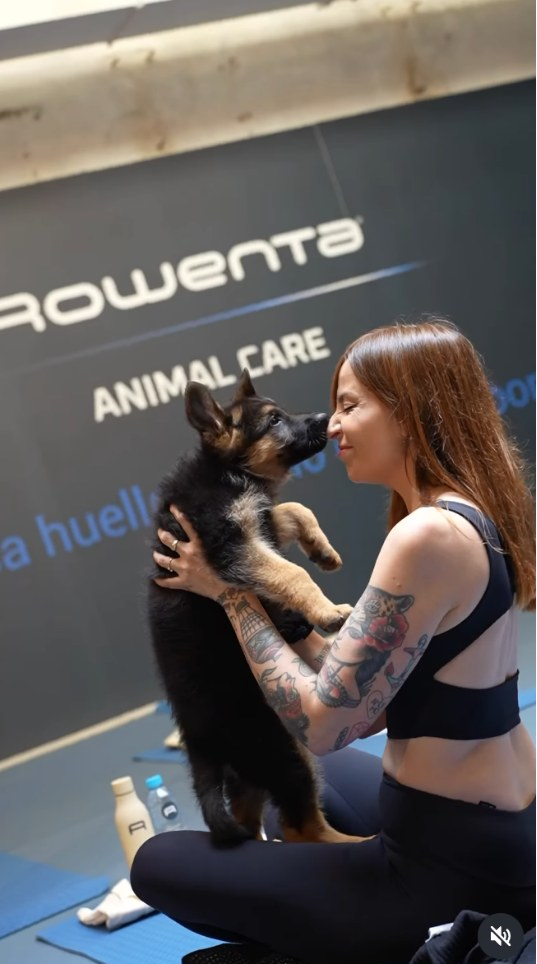
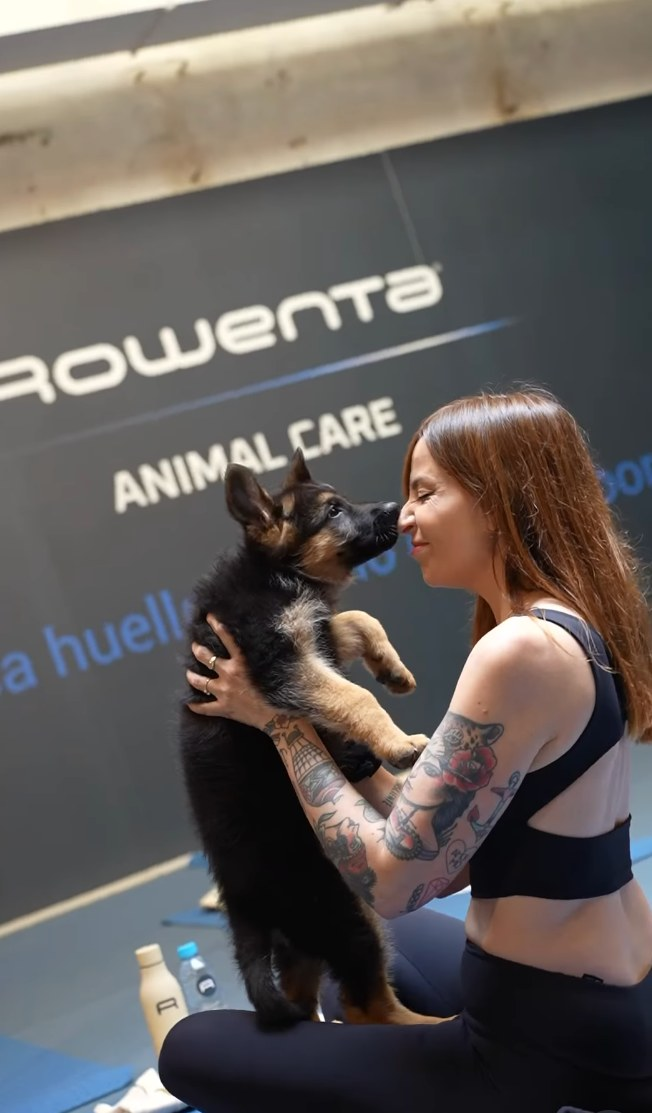
Add real links to video portfolio, replace social media photos with videos
Sourced accurate links and higher-res stills from the actual dossier PDF
(matching link click-areas to image positions to confirm each pairing):
- Fixed Rowenta event link, added Croft Twist event link
- Added Elisabeth Arden to Brand campaign
- Replaced the 3 Events thumbnails with sharper dossier versions
- Replaced Social media (previously unrelated photography stills) with
  5 real video-content stills, each linked to its actual Instagram post

Claude-Session: https://claude.ai/code/session_0178vgnaDS4wVBcrf8Gk3vhh

diff --git a/src/data/site.js b/src/data/site.js
@@ -368,6 +368,14 @@ export const portfolioItems = [
     alt: 'Making of de campaña de vídeo para Shiseido',
     video: true,
   },
+  {
+    sector: 'video',
+    subsection: 'campaign',
+    title: 'Making of de campaña de vídeo para Elisabeth Arden',
+    image: '/fotos/marca-redes/marca-46.jpg',
+    alt: 'Making of de campaña de vídeo para Elisabeth Arden',
+    video: true,
+  },
   // --- Vídeo / events ---
   {
     sector: 'video',
@@ -384,7 +392,7 @@ export const portfolioItems = [
     image: '/fotos/marca-redes/marca-42.jpg',
     alt: 'Cobertura de evento de marca para Rowenta, animal care',
     video: true,
-    link: 'https://www.instagram.com/p/DYO_xfFMrIu/',
+    link: 'https://www.instagram.com/p/DZsAfKZoCGY/',
     linkLabel: 'Ver en Instagram',
   },
   {
@@ -394,6 +402,8 @@ export const portfolioItems = [
     image: '/fotos/marca-redes/marca-44.jpg',
     alt: 'Cobertura de evento de marca para Croft Twist',
     video: true,
+    link: 'https://www.instagram.com/p/DYMv9_wMf67/',
+    linkLabel: 'Ver en Instagram',
   },
   {
     sector: 'video',
@@ -459,19 +469,29 @@ export const portfolioItems = [
   {
     sector: 'video',
     subsection: 'social',
-    title: 'Social media — reel de marca',
-    image: '/fotos/marca-redes/marca-19.jpg',
-    alt: 'Making of de un rodaje de contenido de marca para redes sociales',
+    title: 'Social media — Croft Twist, brindis en piscina',
+    image: '/fotos/marca-redes/marca-47.jpg',
+    alt: 'Dos personas brindando con cócteles Croft Twist junto a una piscina',
     video: true,
-    link: 'https://www.instagram.com/reel/CfB4rR1DJd8/',
+    link: 'https://www.instagram.com/p/DaKswXyDtrp/',
     linkLabel: 'Ver en Instagram',
   },
   {
     sector: 'video',
     subsection: 'social',
-    title: 'Social media — publicación de marca',
-    image: '/fotos/marca-redes/marca-25.jpg',
-    alt: 'Making of de contenido para redes sociales',
+    title: 'Social media — Croft Twist, evento en terraza',
+    image: '/fotos/marca-redes/marca-48.jpg',
+    alt: 'Invitado con una copa de Croft Twist en un evento de marca al aire libre',
+    video: true,
+    link: 'https://www.instagram.com/p/DaNTiVuK2wm/',
+    linkLabel: 'Ver en Instagram',
+  },
+  {
+    sector: 'video',
+    subsection: 'social',
+    title: 'Social media — Croft Twist, servicio',
+    image: '/fotos/marca-redes/marca-49.jpg',
+    alt: 'Sirviendo un cóctel Croft Twist en una copa',
     video: true,
     link: 'https://www.instagram.com/p/DZpum11NBlD/',
     linkLabel: 'Ver en Instagram',
@@ -479,11 +499,21 @@ export const portfolioItems = [
   {
     sector: 'video',
     subsection: 'social',
-    title: 'Social media — publicación de marca',
-    image: '/fotos/marca-redes/marca-02.jpg',
-    alt: 'Contenido de marca para redes sociales',
+    title: 'Social media — actuación en directo',
+    image: '/fotos/marca-redes/marca-50.jpg',
+    alt: 'Cantante actuando en directo con micrófono sobre un escenario',
     video: true,
-    link: 'https://www.instagram.com/p/DaKswXyDtrp/',
+    link: 'https://www.instagram.com/reel/CfB4rR1DJd8/',
+    linkLabel: 'Ver en Instagram',
+  },
+  {
+    sector: 'video',
+    subsection: 'social',
+    title: 'Social media — producto de marca',
+    image: '/fotos/marca-redes/marca-51.jpg',
+    alt: 'Packaging de producto de marca sobre una mesa',
+    video: true,
+    link: 'https://www.instagram.com/p/DRPhak4jME-/',
     linkLabel: 'Ver en Instagram',
   },
 
